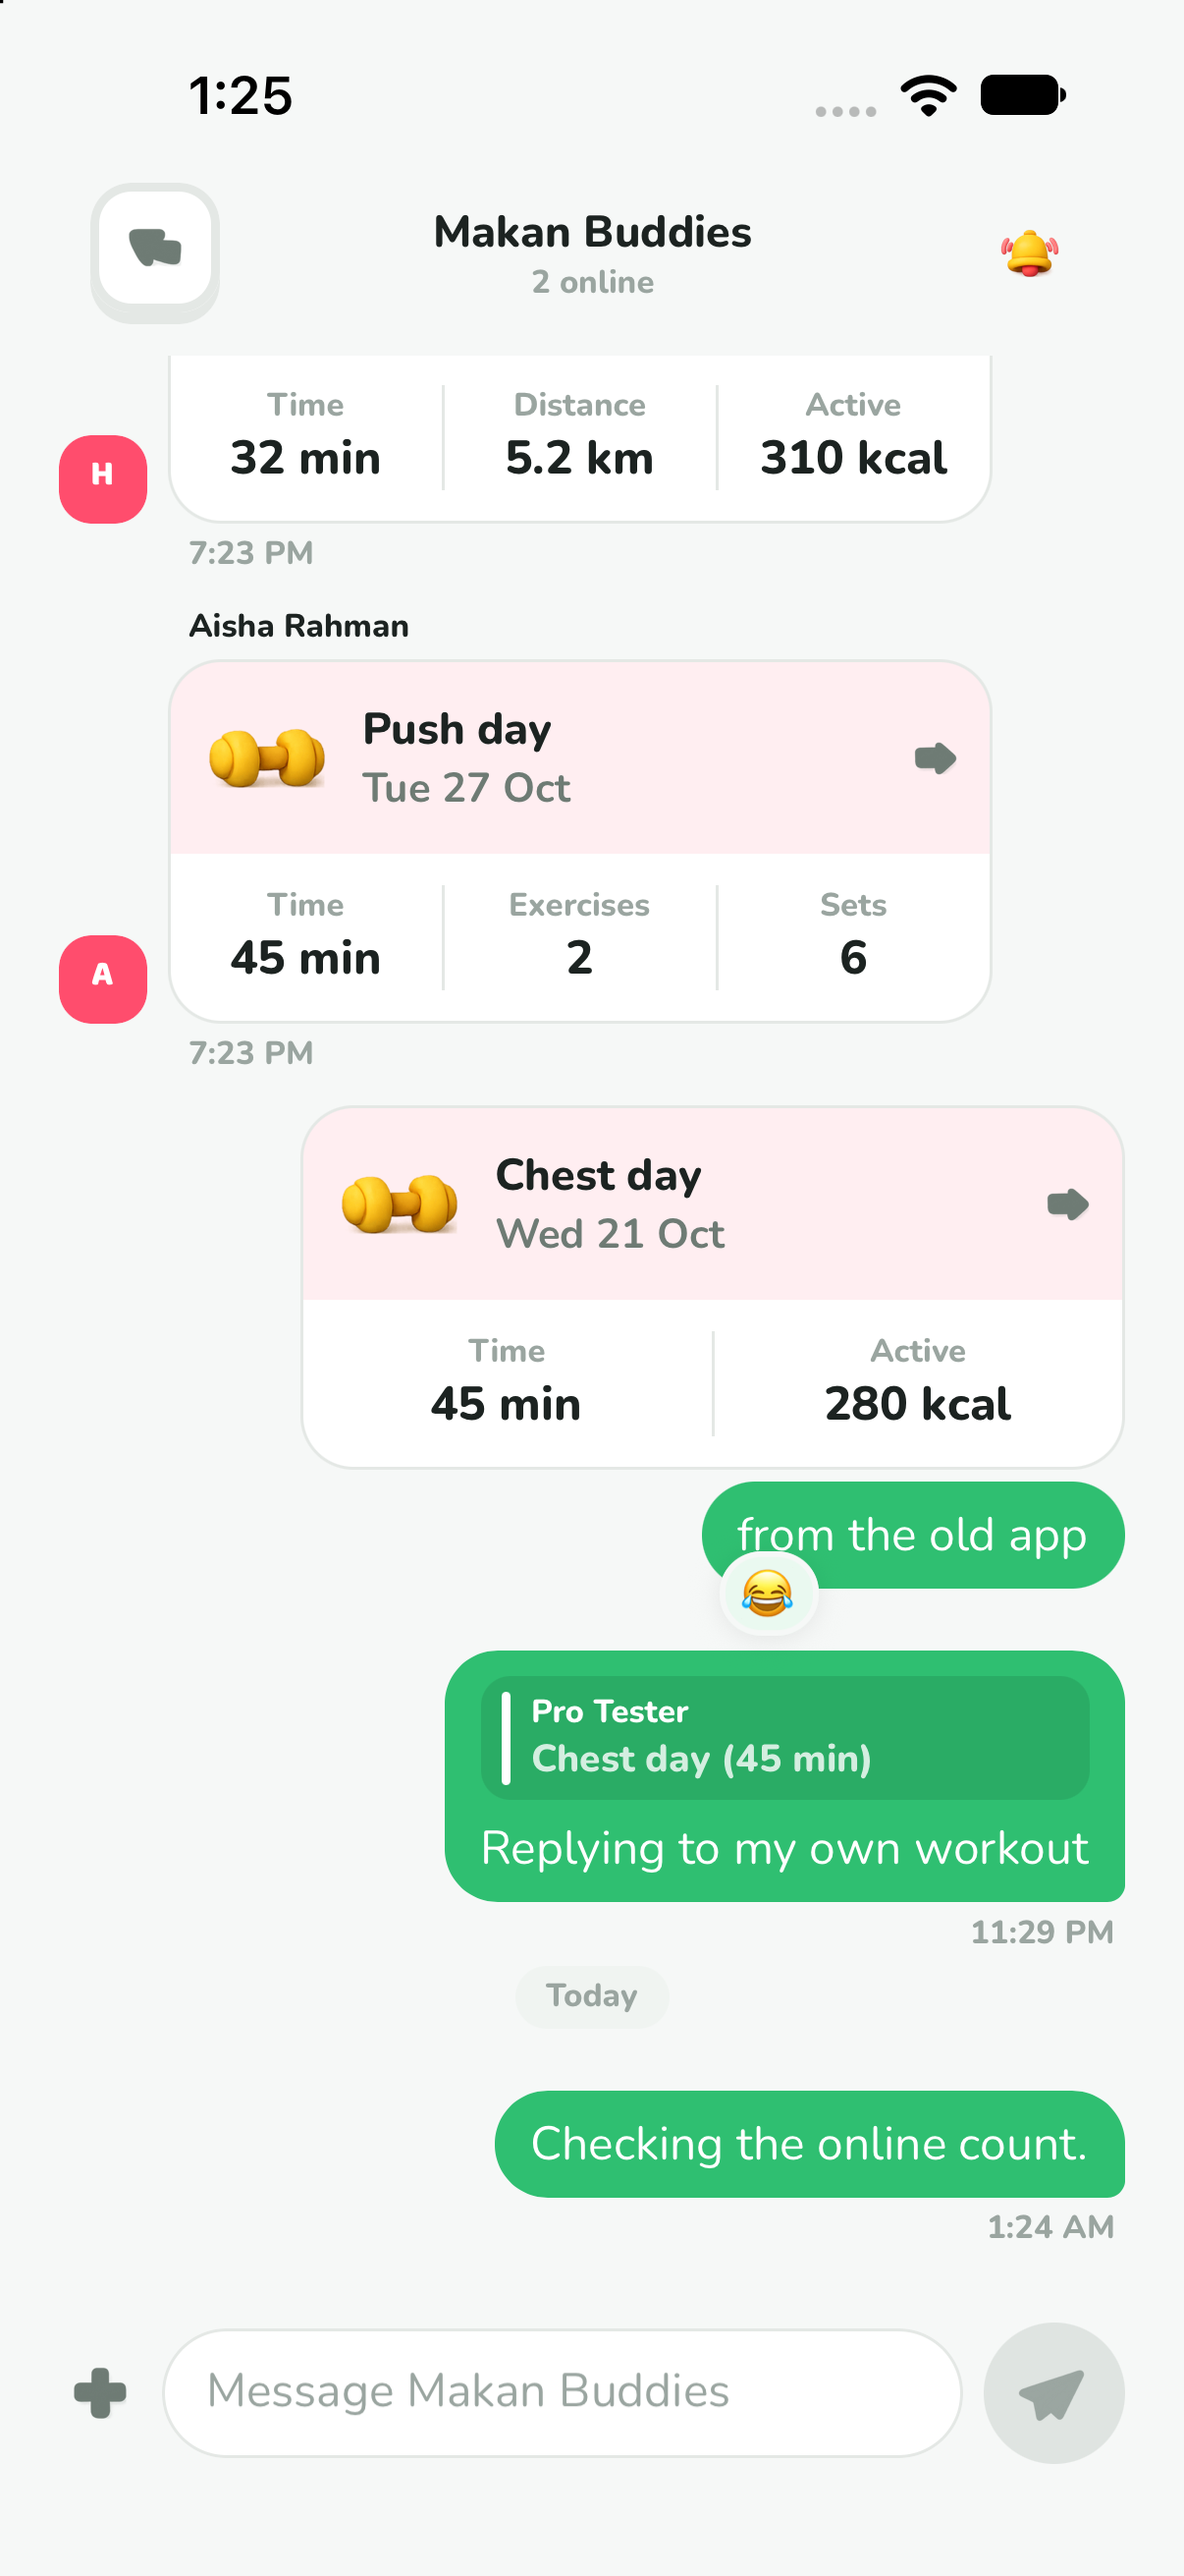
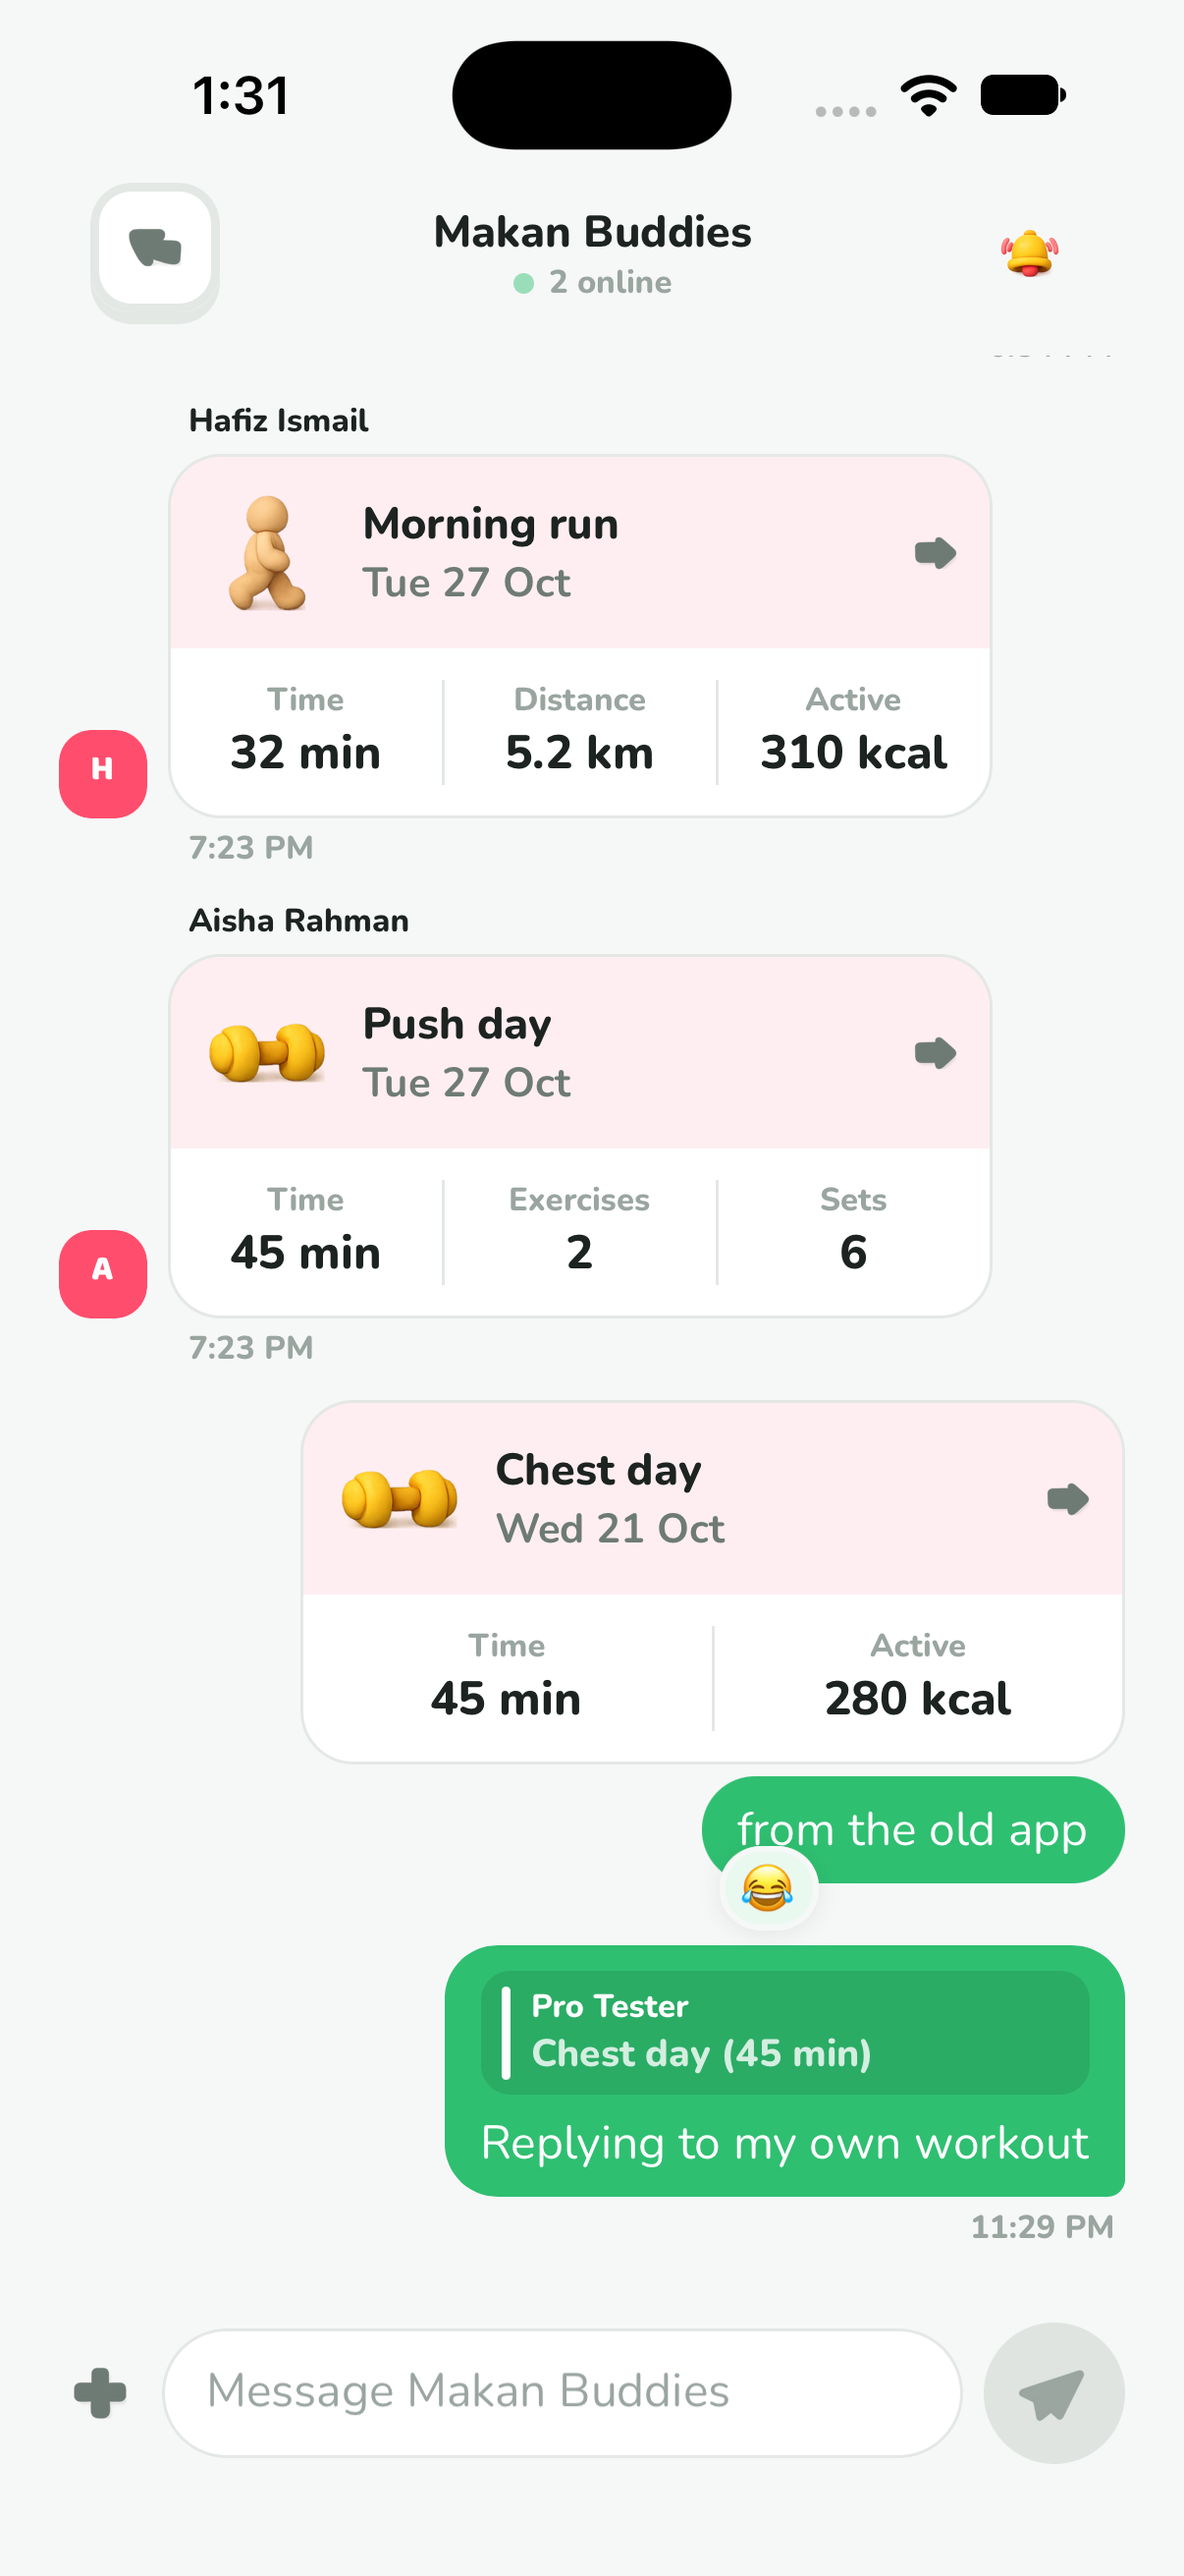
Add a gentle green pulse beside the online count

diff --git a/apps/mobile/src/features/groups/Chat.tsx b/apps/mobile/src/features/groups/Chat.tsx
@@ -27,6 +27,7 @@ import {
 import { Gesture, GestureDetector, GestureHandlerRootView } from 'react-native-gesture-handler'
 import { KeyboardChatScrollView } from 'react-native-keyboard-controller'
 import Animated, {
+  cubicBezier,
   Easing,
   interpolate,
   runOnJS,
@@ -94,6 +95,8 @@ import {
   useOpenProfile,
 } from './parts'
 
+const ONLINE_PULSE = { from: { opacity: 1 }, to: { opacity: 0.45 } }
+
 /** Whether the app is in front, rather than behind the notification shade or in the background. */
 function useAppActive(): boolean {
   const [active, setActive] = useState(() => AppState.currentState === 'active')
@@ -159,6 +162,8 @@ export function ChatScreen({
   const viewer = useUserId()
   const name = useMyGroups().data?.find((group) => group.id === groupId)?.name ?? ''
   const focused = useIsFocused()
+  const reduceMotion = useReducedMotion()
+  const colors = useThemeColors()
   const online = useGroupChatPresence(groupId, focused)
   const live = useGroupChatLive(groupId)
   const { thread, loadOlder, loadingOlder } = useGroupThread(groupId, live)
@@ -434,9 +439,28 @@ export function ChatScreen({
                 {name || t('chat')}
               </Text>
               {online !== null ? (
-                <Text variant="micro" accessibilityLiveRegion="polite">
-                  {t('online', { count: online })}
-                </Text>
+                <View className="flex-row items-center gap-1.5">
+                  {online > 0 ? (
+                    <Animated.View
+                      accessible={false}
+                      style={{
+                        width: 7,
+                        height: 7,
+                        borderRadius: 4,
+                        backgroundColor: colors.pandan,
+                        animationName: reduceMotion ? 'none' : ONLINE_PULSE,
+                        animationDuration: '900ms',
+                        animationDirection: 'alternate',
+                        animationIterationCount: 'infinite',
+                        animationTimingFunction: cubicBezier(0.77, 0, 0.175, 1),
+                        animationPlayState: active ? 'running' : 'paused',
+                      }}
+                    />
+                  ) : null}
+                  <Text variant="micro" accessibilityLiveRegion="polite">
+                    {t('online', { count: online })}
+                  </Text>
+                </View>
               ) : null}
             </View>
           }

diff --git a/README.md b/README.md
@@ -3498,7 +3498,9 @@ it (`lib/realtime.ts` holds one channel per topic), so opening the chat from the
 board does not leave and rejoin. Everything else still polls.
 
 - **Online in the chat.** The header shows the group name and a translated count
-  from Supabase Realtime Presence, including the viewer. Only a focused chat
+  from Supabase Realtime Presence, including the viewer. A green dot gently
+  pulses in opacity on the UI thread beside a positive count; Reduce Motion
+  keeps it still, and it pauses while the app is not active. Only a focused chat
   publishes a user id; a board listens without counting as online. Multiple
   devices for the same person count once. Leaving the chat untracks even while
   the board keeps the channel; backgrounding leaves it, and a lost connection
